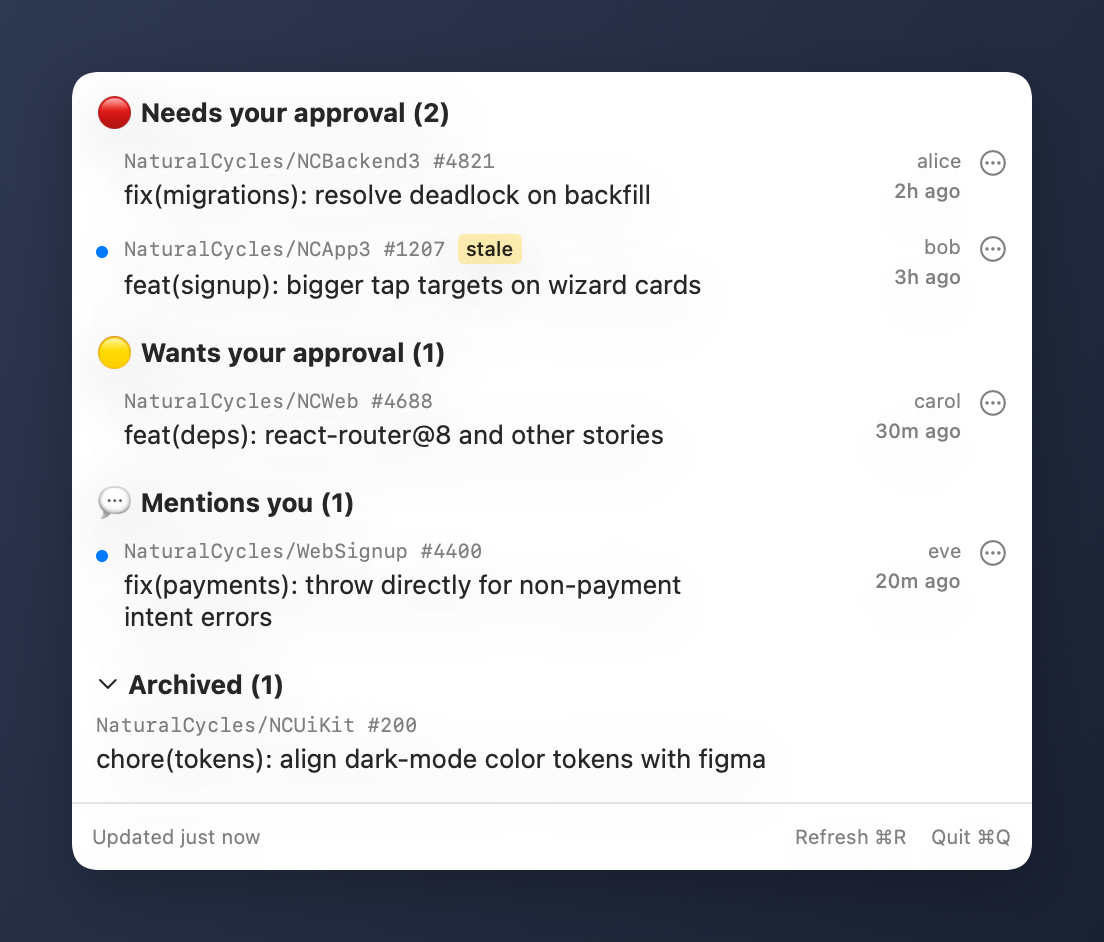
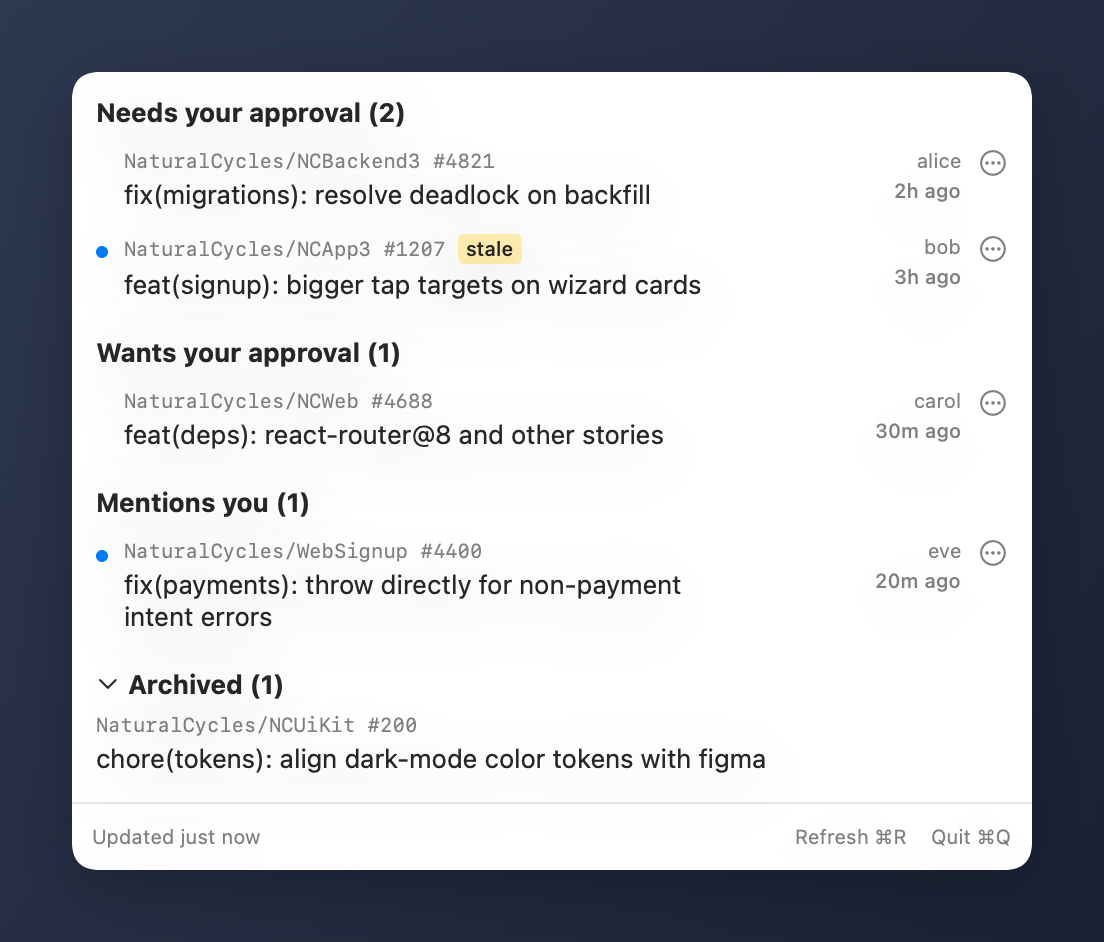
style: drop emoji from bucket headings
Use plain text headings (Needs your approval / Wants your approval /
Mentions you) instead of leading emoji. Updated MenuView,
ScreenshotMenuView, and README to match. Pre-commit hook will
regenerate docs/screenshots/loaded.png since Sources/ changed.

Changed region(s): [[0.0924, 0.0924, 0.4004, 0.1539], [0.0924, 0.3386, 0.4004, 0.4002], [0.0924, 0.5234, 0.3388, 0.5541]]

diff --git a/Sources/HappyPRs/UI/MenuView.swift b/Sources/HappyPRs/UI/MenuView.swift
@@ -13,21 +13,21 @@ public struct MenuView: View {
       ScrollView {
         VStack(alignment: .leading, spacing: 14) {
           if store.prs.isEmpty && store.archived.isEmpty {
-            Text("Nothing waiting on you. 🎉")
+            Text("Nothing waiting on you.")
               .foregroundStyle(.secondary)
               .frame(maxWidth: .infinity, alignment: .center)
               .padding(.vertical, 12)
           } else {
             BucketSectionView(
-              title: "🔴 Needs your approval",
+              title: "Needs your approval",
               items: needs, bucketLabel: "needs", store: store
             )
             BucketSectionView(
-              title: "🟡 Wants your approval",
+              title: "Wants your approval",
               items: wants, bucketLabel: "wants", store: store
             )
             BucketSectionView(
-              title: "💬 Mentions you",
+              title: "Mentions you",
               items: mentions, bucketLabel: "mentions", store: store
             )
             ArchivedSectionView(

diff --git a/Sources/Screenshot/ScreenshotMenuView.swift b/Sources/Screenshot/ScreenshotMenuView.swift
@@ -22,15 +22,15 @@ struct ScreenshotMenuView: View {
     VStack(alignment: .leading, spacing: 0) {
       VStack(alignment: .leading, spacing: 14) {
         BucketSectionView(
-          title: "🔴 Needs your approval",
+          title: "Needs your approval",
           items: needs, bucketLabel: "needs", store: store
         )
         BucketSectionView(
-          title: "🟡 Wants your approval",
+          title: "Wants your approval",
           items: wants, bucketLabel: "wants", store: store
         )
         BucketSectionView(
-          title: "💬 Mentions you",
+          title: "Mentions you",
           items: mentions, bucketLabel: "mentions", store: store
         )
         ArchivedSectionView(

diff --git a/README.md b/README.md
@@ -6,9 +6,9 @@ macOS menubar app showing GitHub PRs that need my input.
 
 ## Buckets
 
-- **🔴 Needs your approval** — I (or my team) am a reviewer, and no one has approved the current HEAD yet.
-- **🟡 Wants your approval** — same as above, but someone else has already approved.
-- **💬 Mentions you** — I'm `@`-mentioned in the body, a comment, a review summary, or an inline review thread. Additive — can overlap with the other buckets.
+- **Needs your approval** — I (or my team) am a reviewer, and no one has approved the current HEAD yet.
+- **Wants your approval** — same as above, but someone else has already approved.
+- **Mentions you** — I'm `@`-mentioned in the body, a comment, a review summary, or an inline review thread. Additive — can overlap with the other buckets.
 
 Stale-approval detection: catches PRs where my prior approval was dismissed by new commits but GitHub didn't re-request me.
 